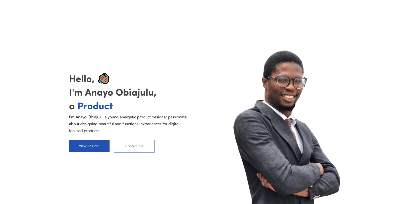
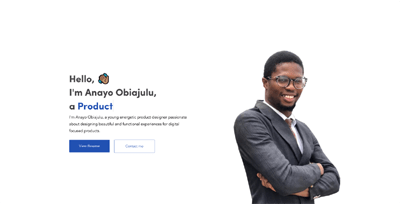
animated up to values section

diff --git a/index.html b/index.html
@@ -50,10 +50,6 @@
 
         <script src="https://www.google.com/recaptcha/api.js"></script>
         <script type="text/javascript" src="js/jquery-3.5.1.min.js"></script>
-        <script src="https://unpkg.com/aos@next/dist/aos.js"></script>
-        <script>
-          AOS.init();
-        </script>
         <!-- <script src="https://code.jquery.com/jquery-3.5.1.min.js" integrity="sha256-9/aliU8dGd2tb6OSsuzixeV4y/faTqgFtohetphbbj0=" crossorigin="anonymous"></script> -->
     </head>
 
@@ -93,18 +89,31 @@
                     </a>
                 </div>
 
-               <div class="hey">
+               <div class="hey"
+                    data-aos="fade-up"
+                    data-aos-offset="0"
+                    data-aos-easing="ease-in-out">
                     <!-- <span id="name" data-aos="fade-up">Hi, I'm Ugo.</span> <br /> -->
                     Hi, I'm Ugo. <br />
                     I'm a <span id="front-end">front-end</span> developer from nigeria.
                </div>
 
-               <div class="role">
+               <div class="role"
+                    data-aos="fade-up"
+                    data-aos-delay="200"
+                    data-aos-easing="ease-in-out">
                    I love to build simple and beautiful user interfaces.
                </div>
 
                <div class="header-buttons">
-                   <div class="btn" onmouseover="changeIcon()" onmouseout="initialIcon()" id="projects">
+                   <div class="btn"
+                        id="projects"
+                        onmouseover="changeIcon()"
+                        onmouseout="initialIcon()"
+                        data-aos="fade-up"
+                        data-aos-delay="400"
+                        data-aos-easing="ease-in-out"
+                   >
                         <div class="action-btn">
                             <div id="project-icon-box">
                                 <img src="img/project_6a38d8.png" alt="project-icon" id="project-icon">
@@ -114,7 +123,10 @@
                         </div>
 
                    </div>
-                   <div class="btn">
+                   <div class="btn"
+                        data-aos="fade-up"
+                        data-aos-delay="450"
+                        data-aos-easing="ease-in-out">
                         <div class="action-btn">
                             <a href="Okeke Ugochukwu's Resume.pdf" download="Okeke Ugochukwu's Resume">Resume</a>
                         </div>
@@ -128,44 +140,70 @@
             <main>
                 <!--About section-->
               <section>
-                 <div class="left">
+                 <div class="left"
+                      data-aos="fade-right"
+                      data-aos-offset="300"
+                      data-aos-duration="800">
                     <img loading="lazy" src="img/svg/about.png" alt="abstract_background" class="ui-images">
                  </div>
 
                  <div class="right">
-                     <div class="hey">
-                        This is me.
-                     </div>
-                     <br class="break" />
-                     <p>
-                        My name is Ugochukwu Okeke, and I'm based in Eastern Nigeria.
-                        I'm a technology enthusiast, and I enjoy building user interfaces.
-                     </p>
+                    <div class="hey"
+                        data-aos="fade-up"
+                        data-aos-offset="200"
+                        data-aos-duration="800">
+                    This is me.
+                    </div>
 
-                     <p>
+                    <br class="break" />
+
+                    <p  data-aos="fade-up"
+                        data-aos-offset="200"
+                        data-aos-delay="100"
+                        data-aos-duration="800">
+                    My name is Ugochukwu Okeke, and I'm based in Eastern Nigeria.
+                    I'm a technology enthusiast, and I enjoy building user interfaces.
+                    </p>
+
+                     <p data-aos="fade-up"
+                        data-aos-delay="100"
+                        data-aos-duration="800">
                         It's been about three years since I started coding,
                         and I still have a long way to go, but so far I'm loving it!
                     </p>
 
                     <br />
-                    <p>
+
+                    <p  data-aos="fade-up"
+                        data-aos-delay="100"
+                        data-aos-duration="800">
                         I'm currently studying Computer Engineering in the
                         <a href="https://uniuyo.edu.ng/" target="blank">University of Uyo</a>, Nigeria.
                     </p>
 
-                    <div class="line"></div>
+                    <div class="line"
+                         data-aos="fade-up"
+                         data-aos-delay="300"
+                         data-aos-duration="800">
+                    </div>
                  </div>
               </section>
 
               <!--Skills section-->
               <section>
                     <div class="right">
-                        <div class="hey">
+                        <div class="hey"
+                             data-aos="fade-up"
+                             data-aos-offset="500"
+                             data-aos-duration="800">
                             My Skills
                         </div>
 
                         <br class="break" />
-                        <p>
+
+                        <p  data-aos="fade-up"
+                            data-aos-offset="500"
+                            data-aos-duration="800">
                             My strongest skills are HTML, CSS and JS. But I also got hands on CMS (Wordpress) and SEO.
 
                             I'm leveling up on jQuery and SASS.
@@ -179,12 +217,18 @@
 
                         </p>
 
-                        <div class="download-btn">
+                        <div class="download-btn"
+                             data-aos="fade-up"
+                             data-aos-delay="300"
+                             data-aos-duration="400">
                             <a href="Okeke Ugochukwu's Resume.pdf" download="Okeke Ugochukwu's Resume">Get Resume</a>
                         </div>
                     </div>
 
-                    <div class="left">
+                    <div class="left"
+                         data-aos="fade-left"
+                         data-aos-offset="500"
+                         data-aos-duration="400">
                         <img loading="lazy" src="img/svg/skills.png" alt="" class="ui-images">
                     </div>
 
@@ -192,24 +236,35 @@
 
               <!--Values section-->
               <section>
-                <div class="left">
+                <div class="left"
+                     data-aos="fade-left"
+                     data-aos-offset="500"
+                     data-aos-duration="00">
                    <img loading="lazy"  src="img/svg/values.png" alt="abstract_background" class="ui-images">
                 </div>
 
                 <div class="right">
-                    <div class="hey">
+                    <div class="hey"
+                         data-aos="fade-up"
+                         data-aos-offset="500"
+                         data-aos-duration="800">
                        My values.
                     </div>
+
                     <br class="break" />
 
-                    <p>
-                        When I build for the web, I focus on three key things: Resposiveness/Accessibility, Performance and Design.
-                    </p>
-
-                    <p>
+                    <p  data-aos="fade-up"
+                        data-aos-duration="800"
+                        data-aos-offset="490">
+                        When I build for the web, I focus on three key things: Resposiveness/Accessibility, Performance and Design. <br />
                         I believe this three concepts in their proper proportions make for a good website/webapp user experience.
                     </p>
-                   <div class="line"></div>
+
+                   <div class="line"
+                        data-aos="fade-up"
+                        data-aos-delay="600"
+                        data-aos-duration="800">
+                    </div>
                 </div>
               </section>
 
@@ -428,9 +483,8 @@
         </div>
 
         <script type="text/javascript" src="js/script.js"></script>
+
         <script src="https://unpkg.com/aos@next/dist/aos.js"></script>
-        <script>
-          AOS.init();
-        </script>
+        <script> AOS.init() </script>
     </body>
 </html>
